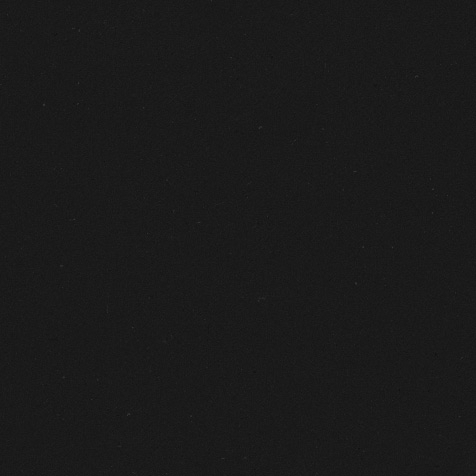
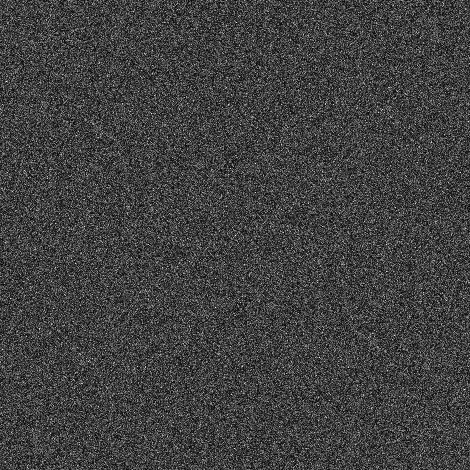
noise effect

diff --git a/src/styles.css b/src/styles.css
@@ -44,6 +44,8 @@ button {
   pointer-events: none;
   animation: noiseFX 3s infinite;
   background: url('/assets/noise.png');
+  background-color: rgba(0, 0, 0, 0.95); /* Semi-transparent black overlay */
+z-index: 3;
 }
 
 .links {
@@ -126,43 +128,43 @@ section {
 
 @keyframes noiseFX {
   0%, 100% {
-    opacity: 0.6; /* Lower value = stronger effect */
+    opacity: 0.2; /* Lower value = stronger effect */
   }
 
   10% {
-    opacity: 0.61;
+    opacity: 0.22;
   }
 
   20% {
-    opacity: 0.62;
+    opacity: 0.24;
   }
 
   30% {
-    opacity: 0.63;
+    opacity: 0.26;
   }
 
   40% {
-    opacity: 0.64;
+    opacity: 0.28;
   }
 
   50% {
-    opacity: 0.65; /* Higher value = less overpowering effect */
+    opacity: 0.3; /* Lower maximum value = less grainy effect */
   }
 
   60% {
-    opacity: 0.64;
+    opacity: 0.28;
   }
 
   70% {
-    opacity: 0.63;
+    opacity: 0.26;
   }
 
   80% {
-    opacity: 0.62;
+    opacity: 0.24;
   }
 
   90% {
-    opacity: 0.61;
+    opacity: 0.22;
   }
 }
 
